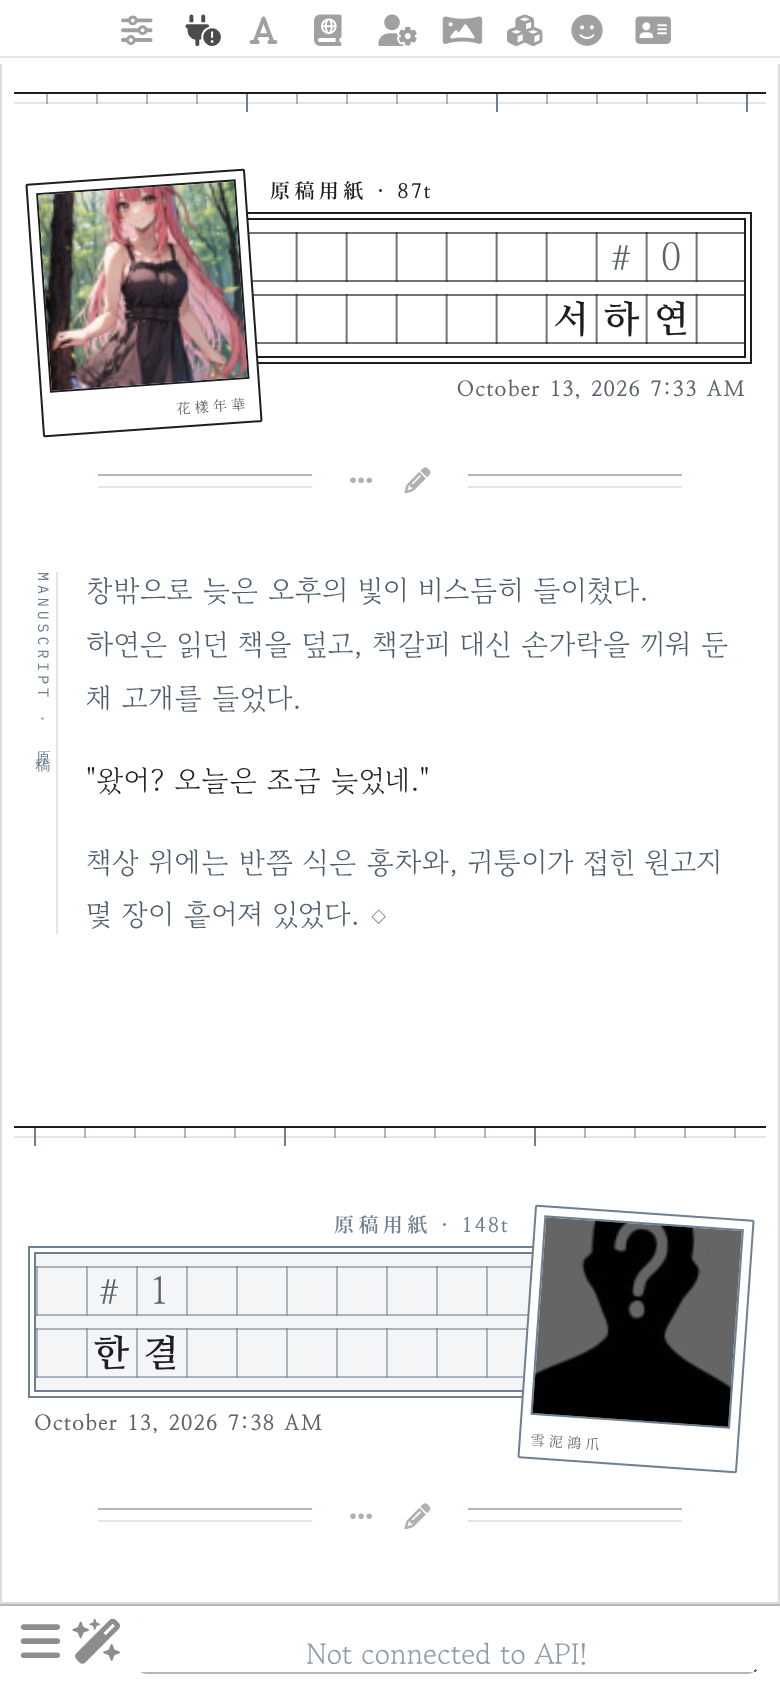
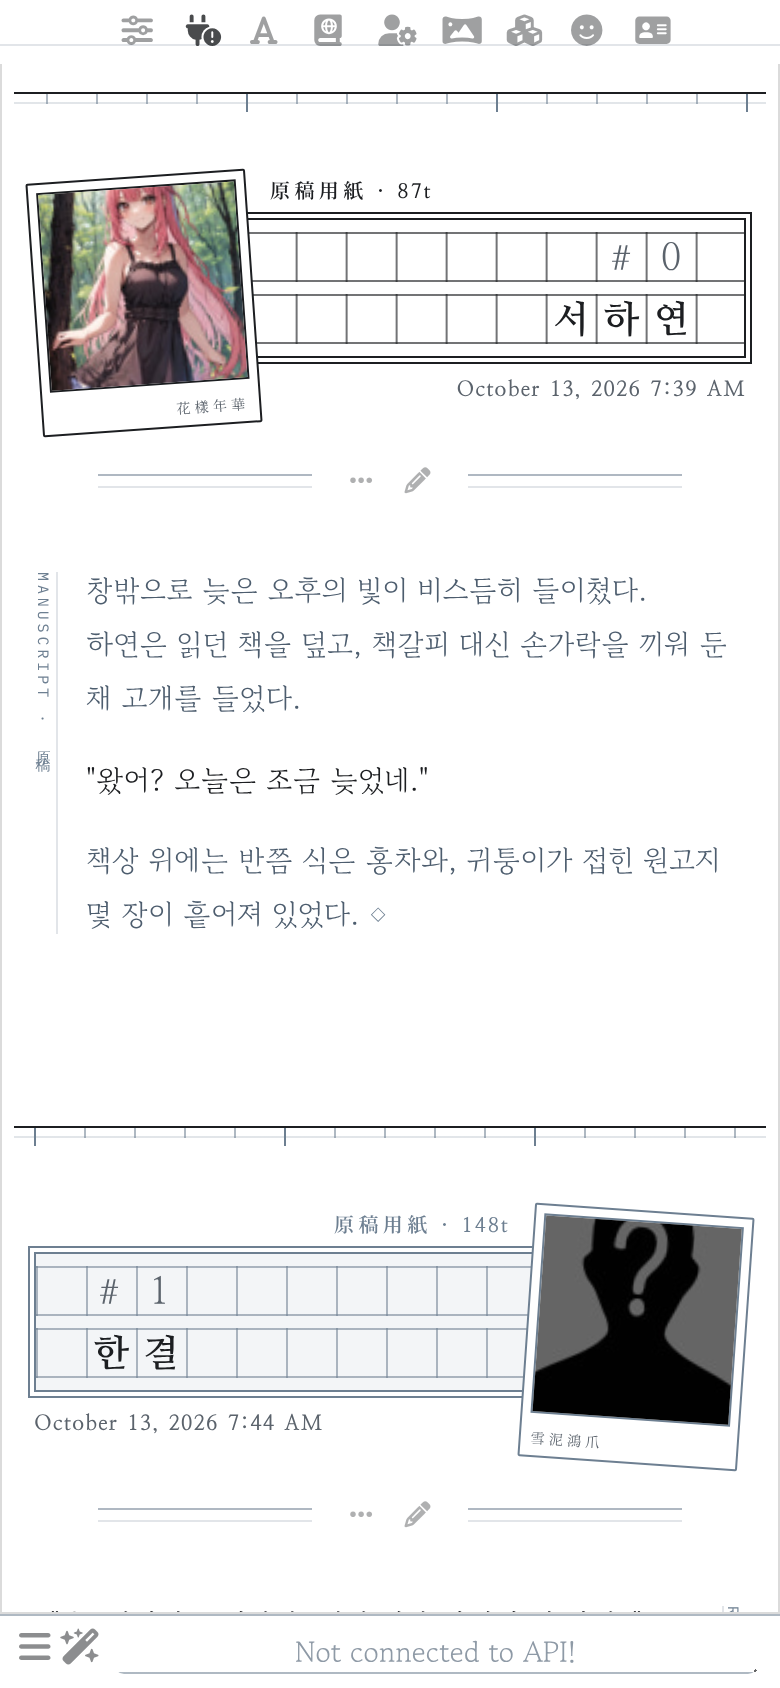
Wongoji: panel pass — light gray UI, no shadows, 0.8 font scale
- Theme font scale 0.8; chat body text and top icons compensated to
  keep their size, input icons slightly smaller
- Panels use neutral light gray washes and lines instead of blue-gray
- Strip text shadows and image/panel box shadows; remove the default
  drop-shadow filters on icons and prompt-manager labels
- Remap ST's white-alpha variables to ink alphas so disabled prompts
  and other muted labels are readable on white
- Select2 boxes (world selection) on white; collapse chevrons light

Claude-Session: https://claude.ai/code/session_01VxNZVdN99GR1yFwUVAN4mT

diff --git a/src/wongoji.css b/src/wongoji.css
@@ -33,7 +33,19 @@
     --wg-print: #6d7f91;          /* 칸 테두리 */
     --wg-print-line: rgba(109, 127, 145, 0.55);
     --wg-print-faint: rgba(109, 127, 145, 0.20);
-    --wg-wash: #e4e9ee;           /* 청회색 바탕 (인용, 머리띠) */
+    --wg-wash: #e4e9ee;           /* 청회색 바탕 (인용) */
+
+    /* 패널(설정·캐릭터 목록·월드 인포 등)은 옅은 회색 */
+    --wg-ui-wash: #f1f1f1;
+    --wg-ui-hover: #e8e8e8;
+    --wg-ui-line: #d4d4d4;
+
+    /* 밝은 바탕에서 쓰도록, 어두운 테마용 '흰색 반투명' 값을 먹색 반투명으로 바꿉니다.
+       (SillyTavern 기본 스타일이 비활성 글자 등에 이 값을 씁니다) */
+    --white20a: rgba(28, 30, 33, 0.16);
+    --white30a: rgba(28, 30, 33, 0.38);
+    --white50a: rgba(28, 30, 33, 0.55);
+    --white70a: rgba(28, 30, 33, 0.7);
 
     /* 강조 */
     --wg-quote: #1c1e21;          /* “대사” — 먹 */
@@ -60,7 +72,8 @@
     --wg-mono: 'IBM Plex Mono', 'D2Coding', ui-monospace, monospace;
 
     /* 본문: 글자 크기와 행간 */
-    --wg-text: calc(var(--mainFontSize) * 0.97);
+    /* 테마의 기본 글자 크기(Font Scale)는 0.8 — 본문은 그만큼 보정해 이전 크기를 유지합니다 */
+    --wg-text: calc(var(--mainFontSize) * 1.21);
     --wg-lh: calc(var(--wg-text) * 1.85);
     --wg-measure: clamp(14px, 6%, 44px);  /* 본문 좌우 여백 */
 
@@ -81,9 +94,9 @@
     --wg-tilt: -4deg;
 
     /* 상단 메뉴 · 입력창 아이콘 */
-    --topBarIconSize: calc(var(--mainFontSize) * 0.95);
+    --topBarIconSize: calc(var(--mainFontSize) * 1.19);
     --topBarBlockPadding: 16px;
-    --bottomFormIconSize: calc(var(--mainFontSize) * 1.35);
+    --bottomFormIconSize: calc(var(--mainFontSize) * 1.4);
 
     --mainFontFamily: var(--wg-serif);
     --monoFontFamily: var(--wg-mono);
@@ -99,7 +112,7 @@
         --wg-photo: 100px;
         --wg-frame: 5px;
         --wg-chin: 22px;
-        --topBarIconSize: calc(var(--mainFontSize) * 1.05);
+        --topBarIconSize: calc(var(--mainFontSize) * 1.31);
         --bottomFormIconSize: calc(var(--mainFontSize) * 1.5);
     }
 }
@@ -1175,8 +1188,41 @@ body.hideChatAvatars #chat .mes {
 }
 
 /* ----------------------------------------------------------------------------
-   패널 · 팝업 — 같은 종이 위에서
+   패널 · 팝업 — 같은 종이 위에서. 옅은 회색 선과 바탕만, 그림자 없음
    ---------------------------------------------------------------------------- */
+
+/* 그림자 — 글자와 이미지 모두 없앱니다 */
+body,
+body * {
+    text-shadow: none !important;
+}
+
+img,
+.avatar,
+.avatar img,
+.bg_example,
+.character_select .avatar img,
+.group_select .avatar img,
+.menu_button,
+.menu_button_icon,
+.drawer-content,
+.popup,
+#character_popup,
+#WorldInfo,
+.options-content,
+.list-group,
+#extensionsMenu,
+#toast-container > div {
+    box-shadow: none !important;
+}
+
+.mes_button,
+.extraMesButtons > div,
+.inline-drawer-icon,
+.custom-drawer-icon,
+.drawer-icon {
+    filter: none !important;
+}
 
 .drawer-content,
 #left-nav-panel,
@@ -1189,9 +1235,7 @@ body.hideChatAvatars #chat .mes {
 #extensionsMenu {
     background-color: var(--wg-paper);
     color: var(--wg-ink);
-    text-shadow: none;
-    border-color: rgba(28, 30, 33, 0.16);
-    box-shadow: 0 10px 30px -14px rgba(28, 30, 33, 0.4);
+    border-color: var(--wg-ui-line);
 }
 
 .menu_button,
@@ -1201,13 +1245,13 @@ body.hideChatAvatars #chat .mes {
 }
 
 .menu_button {
-    background-color: rgba(28, 30, 33, 0.04);
-    border: 1px solid rgba(28, 30, 33, 0.16);
+    background-color: var(--wg-ui-wash);
+    border: 1px solid var(--wg-ui-line);
     filter: none;
 }
 
 .menu_button:hover {
-    background-color: var(--wg-wash);
+    background-color: var(--wg-ui-hover);
 }
 
 .text_pole,
@@ -1218,18 +1262,57 @@ input[type="number"],
 input[type="search"] {
     background-color: #ffffff;
     color: var(--wg-ink);
-    border: 1px solid rgba(28, 30, 33, 0.18);
-    text-shadow: none;
+    border: 1px solid var(--wg-ui-line);
 }
 
+/* 기본 스타일이 글자·아이콘에 거는 검은 그림자 필터도 걷어 냅니다 */
+.dragClose,
+.ch_fav_icon,
+.mes_edit_buttons,
+.mes_img_swipe_counter,
+.draggable,
+.zoomed_avatar,
+#completion_prompt_manager #completion_prompt_manager_list li.completion_prompt_manager_prompt span span span,
+#completion_prompt_manager .completion_prompt_manager_header_advanced span {
+    filter: none !important;
+}
+
+/* 선택 상자(월드 선택 등) — 어두운 반투명 바탕 대신 흰 종이 */
+.select2-container .select2-selection--multiple,
+.select2-container .select2-selection--single,
+.select2-search__field {
+    background-color: #ffffff !important;
+    border-color: var(--wg-ui-line) !important;
+    color: var(--wg-ink);
+}
+
+.select2-container .select2-selection--multiple .select2-selection__choice,
+.select2-container .select2-selection--single .select2-selection__choice {
+    background-color: var(--wg-ui-wash) !important;
+    border-color: var(--wg-ui-line) !important;
+    color: var(--wg-ink);
+}
+
+.select2-dropdown,
+.select2-results__option {
+    background-color: #ffffff;
+    color: var(--wg-ink);
+}
+
+.select2-results__option--highlighted {
+    background-color: var(--wg-ui-hover) !important;
+    color: var(--wg-ink) !important;
+}
+
+/* 접기 머리 — 옅은 회색 띠 */
 #extensions_settings .inline-drawer-toggle.inline-drawer-header,
 #extensions_settings2 .inline-drawer-toggle.inline-drawer-header,
 #user-settings-block h4,
 .standoutHeader {
     background-image: none;
-    background-color: var(--wg-wash);
+    background-color: var(--wg-ui-wash);
     border: 0;
-    border-bottom: 1px solid var(--wg-print);
+    border-bottom: 1px solid var(--wg-ui-line);
     border-radius: 3px 3px 0 0;
     color: var(--wg-ink);
 }
@@ -1238,23 +1321,30 @@ input[type="search"] {
 #extensions_settings2 .inline-drawer-toggle.inline-drawer-header:hover,
 .standoutHeader.inline-drawer-header:hover {
     filter: none;
-    background-color: #d8dfe6;
+    background-color: var(--wg-ui-hover);
 }
 
 .standoutHeader ~ .inline-drawer-content {
-    background-color: rgba(255, 255, 255, 0.6);
+    background-color: #ffffff;
+    border-color: var(--wg-ui-line);
+}
+
+/* 접기 화살표 — 검은 동그라미 대신 가는 회색 */
+.inline-drawer-icon {
+    color: var(--wg-ink-faint);
+    font-size: calc(var(--mainFontSize) * 1.25);
 }
 
 #extensionsMenu > .extension_container > div,
 #extensionsMenu > div:not(.extension_container),
 .options-content a,
 .list-group-item {
-    opacity: 0.8;
+    opacity: 0.85;
 }
 
 .list-group-item:hover,
 .options-content a:hover {
-    background-color: var(--wg-wash);
+    background-color: var(--wg-ui-hover);
 }
 
 h1, h2, h3, h4, h5,
@@ -1263,16 +1353,62 @@ h1, h2, h3, h4, h5,
     letter-spacing: 0.01em;
 }
 
+/* 캐릭터 · 페르소나 목록 — 이미지에 가는 선 */
+.character_select .avatar img,
+.group_select .avatar img,
+#user_avatar_block .avatar img,
+.avatar-container .avatar img,
+#avatar_div_div img,
+.bogus_folder_select .avatar {
+    border: 1px solid var(--wg-ui-line);
+}
+
+.character_select.selected,
+.group_select.selected,
+.avatar-container.selected {
+    background-color: var(--wg-ui-wash);
+}
+
+/* 월드 인포 항목 */
+.world_entry,
+.world_entry_form {
+    border-color: var(--wg-ui-line) !important;
+    background-color: #ffffff;
+}
+
+/* 프롬프트 관리자 — 꺼진 항목도 읽히게 */
+#completion_prompt_manager #completion_prompt_manager_list li {
+    border-color: var(--wg-ui-line);
+}
+
+#completion_prompt_manager #completion_prompt_manager_list .completion_prompt_manager_prompt_disabled .completion_prompt_manager_prompt_name,
+#completion_prompt_manager #completion_prompt_manager_list .completion_prompt_manager_prompt_disabled .completion_prompt_manager_prompt_name .prompt-manager-inspect-action {
+    color: var(--wg-ink-faint);
+}
+
+#completion_prompt_manager #completion_prompt_manager_list .completion_prompt_manager_prompt.completion_prompt_manager_prompt_disabled {
+    border: 1px dashed var(--wg-ui-line);
+}
+
+#completion_prompt_manager #completion_prompt_manager_list .completion_prompt_manager_prompt:not(.completion_prompt_manager_prompt_disabled) .prompt-manager-toggle-action {
+    color: var(--wg-ink);
+}
+
+#completion_prompt_manager .completion_prompt_manager_header,
+#completion_prompt_manager .completion_prompt_manager_header * {
+    color: var(--wg-ink-soft);
+}
+
+/* 알림 */
 #toast-container > div {
     background-color: var(--wg-paper);
     color: var(--wg-ink);
-    border: 1px solid rgba(28, 30, 33, 0.18);
-    box-shadow: 0 8px 20px -10px rgba(28, 30, 33, 0.4);
+    border: 1px solid var(--wg-ui-line);
     opacity: 1;
 }
 
-#toast-container > .toast-success { border-left: 4px solid var(--wg-print) !important; }
-#toast-container > .toast-info { border-left: 4px solid var(--wg-print-line) !important; }
+#toast-container > .toast-success { border-left: 4px solid var(--wg-ink-faint) !important; }
+#toast-container > .toast-info { border-left: 4px solid var(--wg-ui-line) !important; }
 #toast-container > .toast-warning { border-left: 4px solid var(--wg-ink-soft) !important; }
 #toast-container > .toast-error { border-left: 4px solid var(--wg-ink) !important; }
 

diff --git a/README.md b/README.md
@@ -22,6 +22,8 @@ SillyTavern UI 테마입니다. 흰 바탕과 먹, 청회색으로 인쇄된 원
 - **본문**: 가독성을 위해 틀과 칸 배경 없이 종이 위에 바로 씁니다. 본문 옆에 책등처럼 세로 표기(`MANUSCRIPT · 原稿`, `REPLY · 答書`)가 붙고, 글 끝에는 마침 기호 `◇`가 찍힙니다.
 - **문장 표현**: 대사와 본문은 먹색, 지문과 속마음은 청회색입니다. 인용(`>`)은 책 뒤표지의 제사(題辭)처럼 큰 따옴표가 달린 가운데 정렬 청회색 상자로, 장면 전환(`---`)은 `＊`로 보입니다.
 - **색**: 화면 요소는 흑백과 청회색만 씁니다(아바타 사진은 원래 색 그대로). 유저 원고지는 아주 옅은 청회색이고, 그림자와 블러는 없습니다.
+- **패널**: 캐릭터 목록, 프롬프트 관리자, 월드 인포, 확장, 페르소나, 배경 등은 흰 종이에 옅은 회색 선과 바탕만 씁니다. 글자와 이미지의 그림자는 모두 없앴고, 꺼진 프롬프트도 회색 글씨로 읽힙니다.
+- **글자 크기**: 테마의 기본 Font Scale은 0.8입니다. 채팅 본문은 이전 크기를 유지하도록 보정되어 있습니다.
 - **상단 메뉴 · 입력창**: 아이콘을 작게 줄여 가운데로 모으고, 연한 선 하나로만 구분했습니다. 모바일에서도 입력창 아이콘이 PC처럼 한 줄로 놓입니다.
 
 서체(Google Fonts): 고운바탕(본문), 나눔명조(이름·날짜·제목·인용), Noto Serif KR(한자 글귀).
